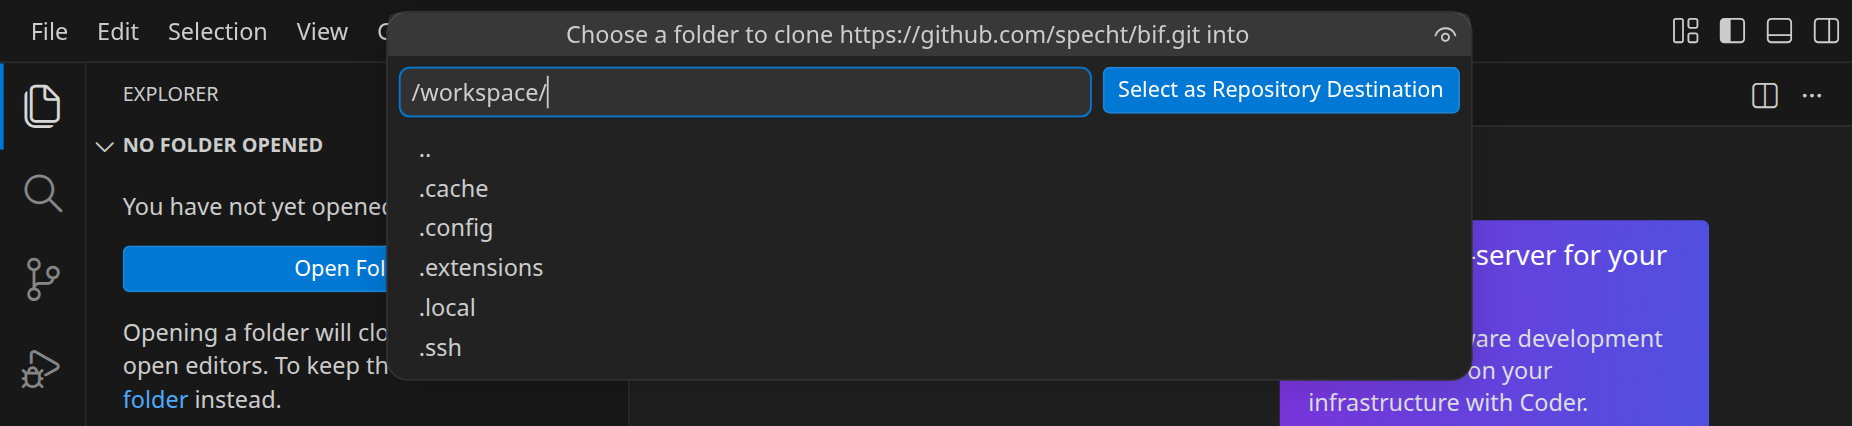
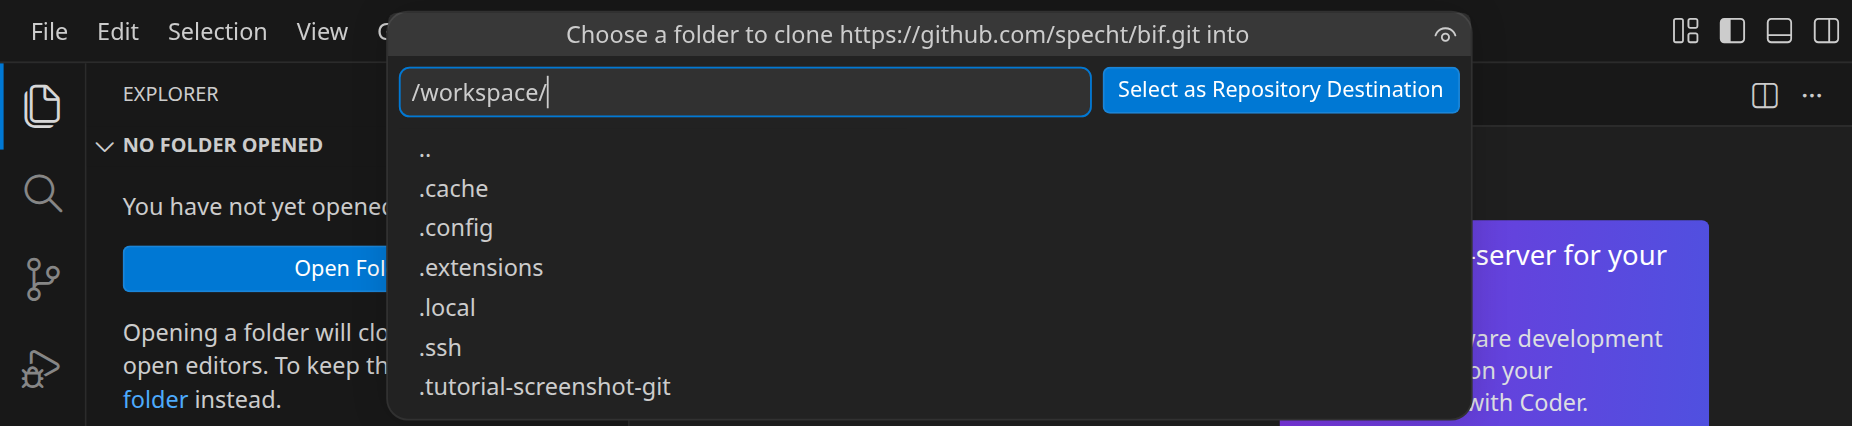
yay

Changed region(s): [[0.6771, 0.885, 0.8002, 1.0], [0.2154, 0.885, 0.3693, 0.946]]

diff --git a/src/tutorial-screenshots/server.js b/src/tutorial-screenshots/server.js
@@ -31,7 +31,7 @@ function sleep(seconds) {
 
 const CONTENT_ROOT = '/content';
 const USER_ROOT = '/user';
-const LOCAL_GIT_ROOT = process.env.TUTORIAL_SCREENSHOT_LOCAL_GIT_ROOT || '/local-git';
+const GIT_CACHE_ROOT = process.env.TUTORIAL_SCREENSHOT_GIT_CACHE_ROOT || '/git-cache';
 const BASE_URL = process.env.TUTORIAL_SCREENSHOT_BASE_URL || 'http://workspace.test:8025';
 const SCREENSHOT_EMAIL = process.env.TUTORIAL_SCREENSHOT_EMAIL || 'screenshots@example.com';
 const SCREENSHOT_WORKSPACE_USER = process.env.TUTORIAL_SCREENSHOT_WORKSPACE_USER || 'student';
@@ -308,23 +308,17 @@ function parseRecipe(text, markdown, markdownPath, recipeStart) {
 
         const actionCount = recipe.actions.length;
         let match;
-        if ((match = line.match(/^clone-start:\s*(\S+)\s+<-\s+local:(.+?)\s+@\s*(\S+)$/))) {
-            const commit = match[3].trim();
-            if (!/^(?:[0-9a-f]{7}|[0-9a-f]{40})$/i.test(commit)) {
+        if ((match = line.match(/^clone-start:\s*(\S+)\s+@\s*(\S+)$/))) {
+            const commit = match[2].trim();
+            if (!/^[0-9a-f]{40}$/i.test(commit)) {
                 throw withSourceError(
-                    new Error(
-                        `Local clone commit must be exactly 7 or 40 hexadecimal characters: ${commit}`,
-                    ),
+                    new Error(`Pinned clone commit must be a full 40-character SHA-1: ${commit}`),
                     source,
                 );
             }
             recipe.actions.push({
                 type: 'clone-start',
                 url: match[1].trim(),
-                localRepo: valueAtSource(
-                    source,
-                    () => safeRelativePath(match[2].trim()),
-                ),
                 commit: commit.toLowerCase(),
             });
         } else if ((match = line.match(/^clone-start:\s*(.+)$/))) {
@@ -1001,90 +995,137 @@ async function closeFolder() {
     await workspace.waitForTimeout(250);
 }
 
-async function prepareLocalCloneSource(url, localRepo, commit) {
-    const localRoot = path.resolve(LOCAL_GIT_ROOT);
-    const source = path.resolve(localRoot, safeRelativePath(localRepo));
-    if (
-        source !== localRoot &&
-        !source.startsWith(`${localRoot}${path.sep}`)
-    ) {
-        throw new Error(`Local clone source escaped ${LOCAL_GIT_ROOT}: ${localRepo}`);
-    }
-
-    let sourceStat;
+async function resolveCachedCommit(repository, commit) {
     try {
-        sourceStat = await fs.stat(source);
-    } catch (error) {
-        if (error?.code === 'ENOENT') {
-            throw new Error(`Local clone repository does not exist: ${localRepo}`);
-        }
-        throw error;
-    }
-    if (!sourceStat.isDirectory()) {
-        throw new Error(`Local clone repository is not a directory: ${localRepo}`);
-    }
-
-    const git = async args => execFileAsync(
-        'git',
-        ['-c', `safe.directory=${source}`, ...args],
-        { maxBuffer: 10 * 1024 * 1024 },
-    );
-
-    let fullCommit;
-    try {
-        const result = await git(['-C', source, 'rev-parse', '--verify', `${commit}^{commit}`]);
-        fullCommit = result.stdout.trim().toLowerCase();
-    } catch (error) {
-        const detail = `${error.stderr || error.message}`.trim();
-        throw new Error(
-            `Could not resolve local clone commit ${commit} in ${localRepo}: ${detail}`,
+        const result = await execFileAsync(
+            'git',
+            ['--git-dir', repository, 'rev-parse', '--verify', `${commit}^{commit}`],
+            { maxBuffer: 20 * 1024 * 1024 },
         );
+        const fullCommit = result.stdout.trim().toLowerCase();
+        return /^[0-9a-f]{40}$/.test(fullCommit) ? fullCommit : null;
+    } catch {
+        return null;
     }
-    if (!/^[0-9a-f]{40}$/.test(fullCommit)) {
-        throw new Error(`Git returned an invalid commit for ${localRepo}: ${fullCommit}`);
+}
+
+async function preparePinnedCloneSource(url, commit) {
+    await fs.mkdir(GIT_CACHE_ROOT, { recursive: true });
+
+    const repositoryId = sha256(url).slice(0, 24);
+    const cachedRepository = path.join(GIT_CACHE_ROOT, `${repositoryId}.git`);
+    let cacheExists = false;
+
+    try {
+        const stat = await fs.stat(cachedRepository);
+        if (!stat.isDirectory()) {
+            throw new Error(`Git cache path is not a directory: ${cachedRepository}`);
+        }
+        cacheExists = true;
+    } catch (error) {
+        if (error?.code !== 'ENOENT') throw error;
+    }
+
+    if (!cacheExists) {
+        const temporary = `${cachedRepository}.tmp-${process.pid}-${crypto.randomBytes(6).toString('hex')}`;
+        console.log(`Tutorial screenshot Git cache: cloning ${url}`);
+        try {
+            await execFileAsync(
+                'git',
+                ['clone', '--quiet', '--mirror', url, temporary],
+                { maxBuffer: 20 * 1024 * 1024 },
+            );
+            await fs.rename(temporary, cachedRepository);
+            cacheExists = true;
+        } catch (error) {
+            await fs.rm(temporary, { recursive: true, force: true }).catch(() => {});
+            const detail = `${error.stderr || error.message}`.trim();
+            throw new Error(`Could not populate Git cache for ${url}: ${detail}`);
+        }
+    }
+
+    let fullCommit = await resolveCachedCommit(cachedRepository, commit);
+    if (fullCommit) {
+        console.log(
+            `Tutorial screenshot Git cache hit: ${url} @ ${fullCommit.slice(0, 12)}`,
+        );
+    } else {
+        console.log(
+            `Tutorial screenshot Git cache miss for ${commit.slice(0, 12)}; refreshing ${url}`,
+        );
+        try {
+            await execFileAsync(
+                'git',
+                ['--git-dir', cachedRepository, 'fetch', '--quiet', '--prune', 'origin'],
+                { maxBuffer: 20 * 1024 * 1024 },
+            );
+        } catch (error) {
+            const detail = `${error.stderr || error.message}`.trim();
+            throw new Error(`Could not refresh Git cache for ${url}: ${detail}`);
+        }
+
+        fullCommit = await resolveCachedCommit(cachedRepository, commit);
+        if (!fullCommit) {
+            throw new Error(
+                `Pinned commit ${commit} was not found in ${url} after refreshing the cache`,
+            );
+        }
     }
 
     let branch = 'tutorial-screenshot';
     try {
-        const result = await git(['-C', source, 'symbolic-ref', '--quiet', '--short', 'HEAD']);
+        const result = await execFileAsync(
+            'git',
+            ['--git-dir', cachedRepository, 'symbolic-ref', '--quiet', '--short', 'HEAD'],
+        );
         if (result.stdout.trim()) branch = result.stdout.trim();
     } catch {
-        // Detached local repositories use the deterministic fallback branch.
+        // Repositories without a symbolic HEAD use the deterministic fallback.
     }
 
     const workspaceRoot = screenshotWorkspaceRoot();
-    const cacheRoot = path.join(workspaceRoot, '.tutorial-screenshot-git');
-    const cacheId = sha256(`${url}\0${localRepo}\0${fullCommit}`).slice(0, 16);
-    const target = path.join(cacheRoot, `${cacheId}.git`);
-    const workspaceTarget = `/workspace/.tutorial-screenshot-git/${cacheId}.git`;
+    const workspaceCacheRoot = path.join(workspaceRoot, '.tutorial-screenshot-git');
+    const sourceId = sha256(`${url}\0${fullCommit}`).slice(0, 16);
+    const target = path.join(workspaceCacheRoot, `${sourceId}.git`);
+    const workspaceTarget = `/workspace/.tutorial-screenshot-git/${sourceId}.git`;
     const localUrl = `file://${workspaceTarget}`;
     const gitConfig = path.join(workspaceRoot, '.gitconfig');
 
-    await fs.mkdir(cacheRoot, { recursive: true });
+    await fs.mkdir(workspaceCacheRoot, { recursive: true });
     await fs.rm(target, { recursive: true, force: true });
 
     try {
-        await git(['clone', '--quiet', '--bare', source, target]);
-        await execFileAsync('git', ['--git-dir', target, 'update-ref', `refs/heads/${branch}`, fullCommit]);
+        await execFileAsync('git', ['init', '--quiet', '--bare', target]);
+        await execFileAsync(
+            'git',
+            [
+                '--git-dir', target,
+                'fetch', '--quiet', cachedRepository,
+                `${fullCommit}:refs/heads/${branch}`,
+            ],
+            { maxBuffer: 20 * 1024 * 1024 },
+        );
         await execFileAsync('git', ['--git-dir', target, 'symbolic-ref', 'HEAD', `refs/heads/${branch}`]);
         await execFileAsync('git', ['config', '--file', gitConfig, 'protocol.file.allow', 'always']);
         await execFileAsync('git', ['config', '--file', gitConfig, `url.${localUrl}.insteadOf`, url]);
-        await execFileAsync('chown', ['-R', '1000:1000', cacheRoot]);
+        await execFileAsync('chown', ['-R', '1000:1000', workspaceCacheRoot]);
         await fs.chown(gitConfig, 1000, 1000).catch(() => {});
     } catch (error) {
         const detail = `${error.stderr || error.message}`.trim();
-        throw new Error(`Could not prepare local clone ${localRepo}@${commit}: ${detail}`);
+        throw new Error(
+            `Could not prepare pinned clone ${url}@${fullCommit.slice(0, 12)}: ${detail}`,
+        );
     }
 
     console.log(
-        `Tutorial screenshot Git clone uses ${localRepo}@${fullCommit.slice(0, 12)} for ${url}`,
+        `Tutorial screenshot Git clone uses cached ${url} @ ${fullCommit.slice(0, 12)}`,
     );
 }
 
 async function cloneStart(action) {
-    const { url, localRepo, commit } = action;
-    if (localRepo) {
-        await prepareLocalCloneSource(url, localRepo, commit);
+    const { url, commit } = action;
+    if (commit) {
+        await preparePinnedCloneSource(url, commit);
     }
 
     const cloneButton = workspace.getByText('Clone Repository', { exact: true }).first();

diff --git a/config.rb b/config.rb
@@ -19,10 +19,10 @@ TUTORIAL_SCREENSHOT = {
     :height => 929,
     :zoom => 1.5,
     :desktop_scale_factor => 1.203125,
-    :local_git_root => File.expand_path(ENV.fetch('TUTORIAL_SCREENSHOT_LOCAL_GIT_ROOT', '..'), __dir__),
 }.freeze
 LOGS_PATH = DEVELOPMENT ? './logs' : "/home/#{ENV['USER']}/logs/#{PROJECT_NAME}"
 DATA_PATH = DEVELOPMENT ? './data' : "/mnt/hackschule/#{PROJECT_NAME}"
+TUTORIAL_SCREENSHOT_GIT_CACHE_PATH = File.join(DATA_PATH, 'tutorial-screenshot-git-cache')
 MYSQL_DATA_PATH = File.join(DATA_PATH, 'mysql')
 NEO4J_USER_DATA_PATH = File.join(DATA_PATH, 'neo4j_user')
 USER_PATH = File.join(DATA_PATH, 'user')
@@ -124,7 +124,7 @@ if DEVELOPMENT && PROFILE.include?(:dynamic) && PROFILE.include?(:static)
         :volumes => [
             './src/content:/content',
             "#{USER_PATH}:/user",
-            "#{TUTORIAL_SCREENSHOT[:local_git_root]}:/local-git:ro",
+            "#{TUTORIAL_SCREENSHOT_GIT_CACHE_PATH}:/git-cache",
         ],
         :environment => {
             'TUTORIAL_SCREENSHOT_BASE_URL' => WEB_ROOT,
@@ -135,7 +135,6 @@ if DEVELOPMENT && PROFILE.include?(:dynamic) && PROFILE.include?(:static)
             'TUTORIAL_SCREENSHOT_HEIGHT' => TUTORIAL_SCREENSHOT[:height].to_s,
             'TUTORIAL_SCREENSHOT_ZOOM' => TUTORIAL_SCREENSHOT[:zoom].to_s,
             'TUTORIAL_SCREENSHOT_DESKTOP_SCALE_FACTOR' => TUTORIAL_SCREENSHOT[:desktop_scale_factor].to_s,
-            'TUTORIAL_SCREENSHOT_LOCAL_GIT_ROOT' => '/local-git',
         },
         :extra_hosts => [
             'host.docker.internal:host-gateway',
@@ -277,6 +276,7 @@ end
 FileUtils::mkpath(USER_PATH)
 FileUtils::mkpath(INTERNAL_PATH)
 FileUtils::mkpath(INVITATIONS_PATH)
+FileUtils::mkpath(TUTORIAL_SCREENSHOT_GIT_CACHE_PATH) if DEVELOPMENT
 if DEVELOPMENT
     File.write(
         File.join(INVITATIONS_PATH, '_tutorial_screenshots.txt'),

diff --git a/src/tutorial-screenshots/README.md b/src/tutorial-screenshots/README.md
@@ -65,7 +65,7 @@ hide-right-sidebar
 show-bottom-panel
 hide-bottom-panel
 clone-start: URL
-clone-start: URL <- local:REPO @ COMMIT
+clone-start: URL @ SHA1
 clone-confirm-url
 clone-accept-destination
 clone-open
@@ -92,29 +92,29 @@ crop-top: PERCENT%
 crop-bottom: PERCENT%
 ```
 
-For tutorials that demonstrate cloning a public URL, development can use a local
-repository for the actual Git transport while keeping the URL shown to students:
+Clone screenshots can pin the public repository to a full 40-character SHA-1:
 
 ```text
-clone-start: https://github.com/specht/bif.git <- local:bif @ b5215fa
+clone-start: https://github.com/specht/bif.git @ b5215fa72545f05f00d2ba23865c4e2eeff691a2
 ```
 
-`local:bif` means the `bif` repository below the local Git root. By default that
-root is the parent directory of the Workspace checkout, which is convenient when
-repositories such as `workspace` and `bif` are siblings. Override it when needed
-before generating `docker-compose.yaml`:
+Pinned repositories are cached automatically below
+`data/tutorial-screenshot-git-cache`. The first pinned use of a URL creates a
+mirror in that cache. On later runs the generator checks whether the requested
+commit already exists locally; if it does, the remote Git server is not contacted.
+When a new pinned commit is requested, the existing mirror is refreshed once and
+the commit is checked again.
 
-```bash
-TUTORIAL_SCREENSHOT_LOCAL_GIT_ROOT=/path/to/repos ./config.rb up -d
-```
+For the actual VS Code interaction the generator makes a private bare copy from
+the cache inside the disposable screenshot Workspace, points its default branch at
+the pinned commit, and configures Git's `insteadOf` rewriting. VS Code therefore
+still shows and clones the public URL entered in Quick Input even though the Git
+transport is local. The persistent cache survives screenshot Workspace resets and
+screenshot-generator rebuilds. It can be deleted at any time to force a clean
+remote mirror on the next pinned clone.
 
-The commit must be either exactly seven hexadecimal characters or a full
-40-character SHA-1. The generator resolves it in the local repository, makes a
-private bare copy inside the disposable screenshot Workspace, points that copy's
-HEAD branch at the pinned commit, and configures Git's `insteadOf` rewriting so
-VS Code still clones the public URL entered in Quick Input. No network request is
-made for that clone. The local Git root is mounted read-only into the screenshot
-generator.
+Unpinned `clone-start: URL` keeps its existing behavior and clones from the remote
+normally.
 
 `click` matches either an accessible button or an accessible link with the exact
 given name in the preview tab. Prefix the target with `selector:` to address a

diff --git a/src/content/bif/bif.md b/src/content/bif/bif.md
@@ -37,7 +37,7 @@ Bestätige anschließend mit <kbd>Enter</kbd>.
 
 <!-- tutorial-screenshot
 # Clone Repository mit eingetragener BIF-URL
-clone-start: https://github.com/specht/bif.git
+clone-start: https://github.com/specht/bif.git @ b5215fa72545f05f00d2ba23865c4e2eeff691a2
 crop-bottom: 67%
 -->
 
@@ -480,6 +480,7 @@ Sobald du den Schlüssel besitzt, bieten wir stattdessen eine passende Frage an:
 
 `3.md` sieht damit vollständig so aus:
 
+<!-- screenshot-code: 3-cond -->
 ```markdown_wrap
 Im Büro sitzt Frau Neumann an einem Schreibtisch.
 
@@ -518,6 +519,7 @@ Jetzt soll der Schlüssel auch außerhalb des Büros eine Folge haben.
 
 Erstelle die Datei `5.md`:
 
+<!-- screenshot-code: 5-cond -->
 ```markdown_wrap
 Der Schlüssel passt.
 
@@ -528,6 +530,7 @@ Im Materialschrank liegt deine Projektmappe zwischen zwei Kartons. Du steckst si
 
 Öffne anschließend `2.md`. Auch der Flur kann auf den gespeicherten Zustand reagieren. Ersetze den Inhalt durch:
 
+<!-- screenshot-code: 2-cond -->
 ```markdown_wrap
 Du stehst in einem leeren Flur. Links ist ein kleines Büro. Daneben führt eine Tür ins Treppenhaus.
 
@@ -556,7 +559,26 @@ Starte die Geschichte neu und probiere es aus:
 
 Jetzt verändert sich die Beschreibung des Flurs und die neue Entscheidung erscheint.
 
-<!-- Screenshot: Flur ohne Schlüssel -->
+<!-- tutorial-screenshot
+write-file: pages-starter/2.md <- previous-code (2-cond)
+write-file: pages-starter/3.md <- previous-code (3-cond)
+write-file: pages-starter/5.md <- previous-code (5-cond)
+wait-for-file-newer: bif/.story-tools/analysis.json <- bif/pages-starter/2.md
+preview-reload
+hold: 1.5s selector:.story-restart-control
+tab: preview
+zoom: 1.25
+click: Fit graph
+sleep: 0.5
+click: Gehe in den Flur.
+wait-for-text: Sieh im Büro nach.
+click: Sieh im Büro nach.
+wait-for-text: Frage nach dem Materialschrank.
+click: Nimm den Schlüssel.
+wait-for-text: Gehe zurück in den Flur.
+click: Gehe zurück in den Flur.
+sleep: 0.5
+-->
 
 <img class='full full-shadow scroll-right' src='locked-door.webp' alt='Im Flur erscheint mit gespeichertem Schlüssel die neue Entscheidung „Öffne den Materialschrank“.'>
 
